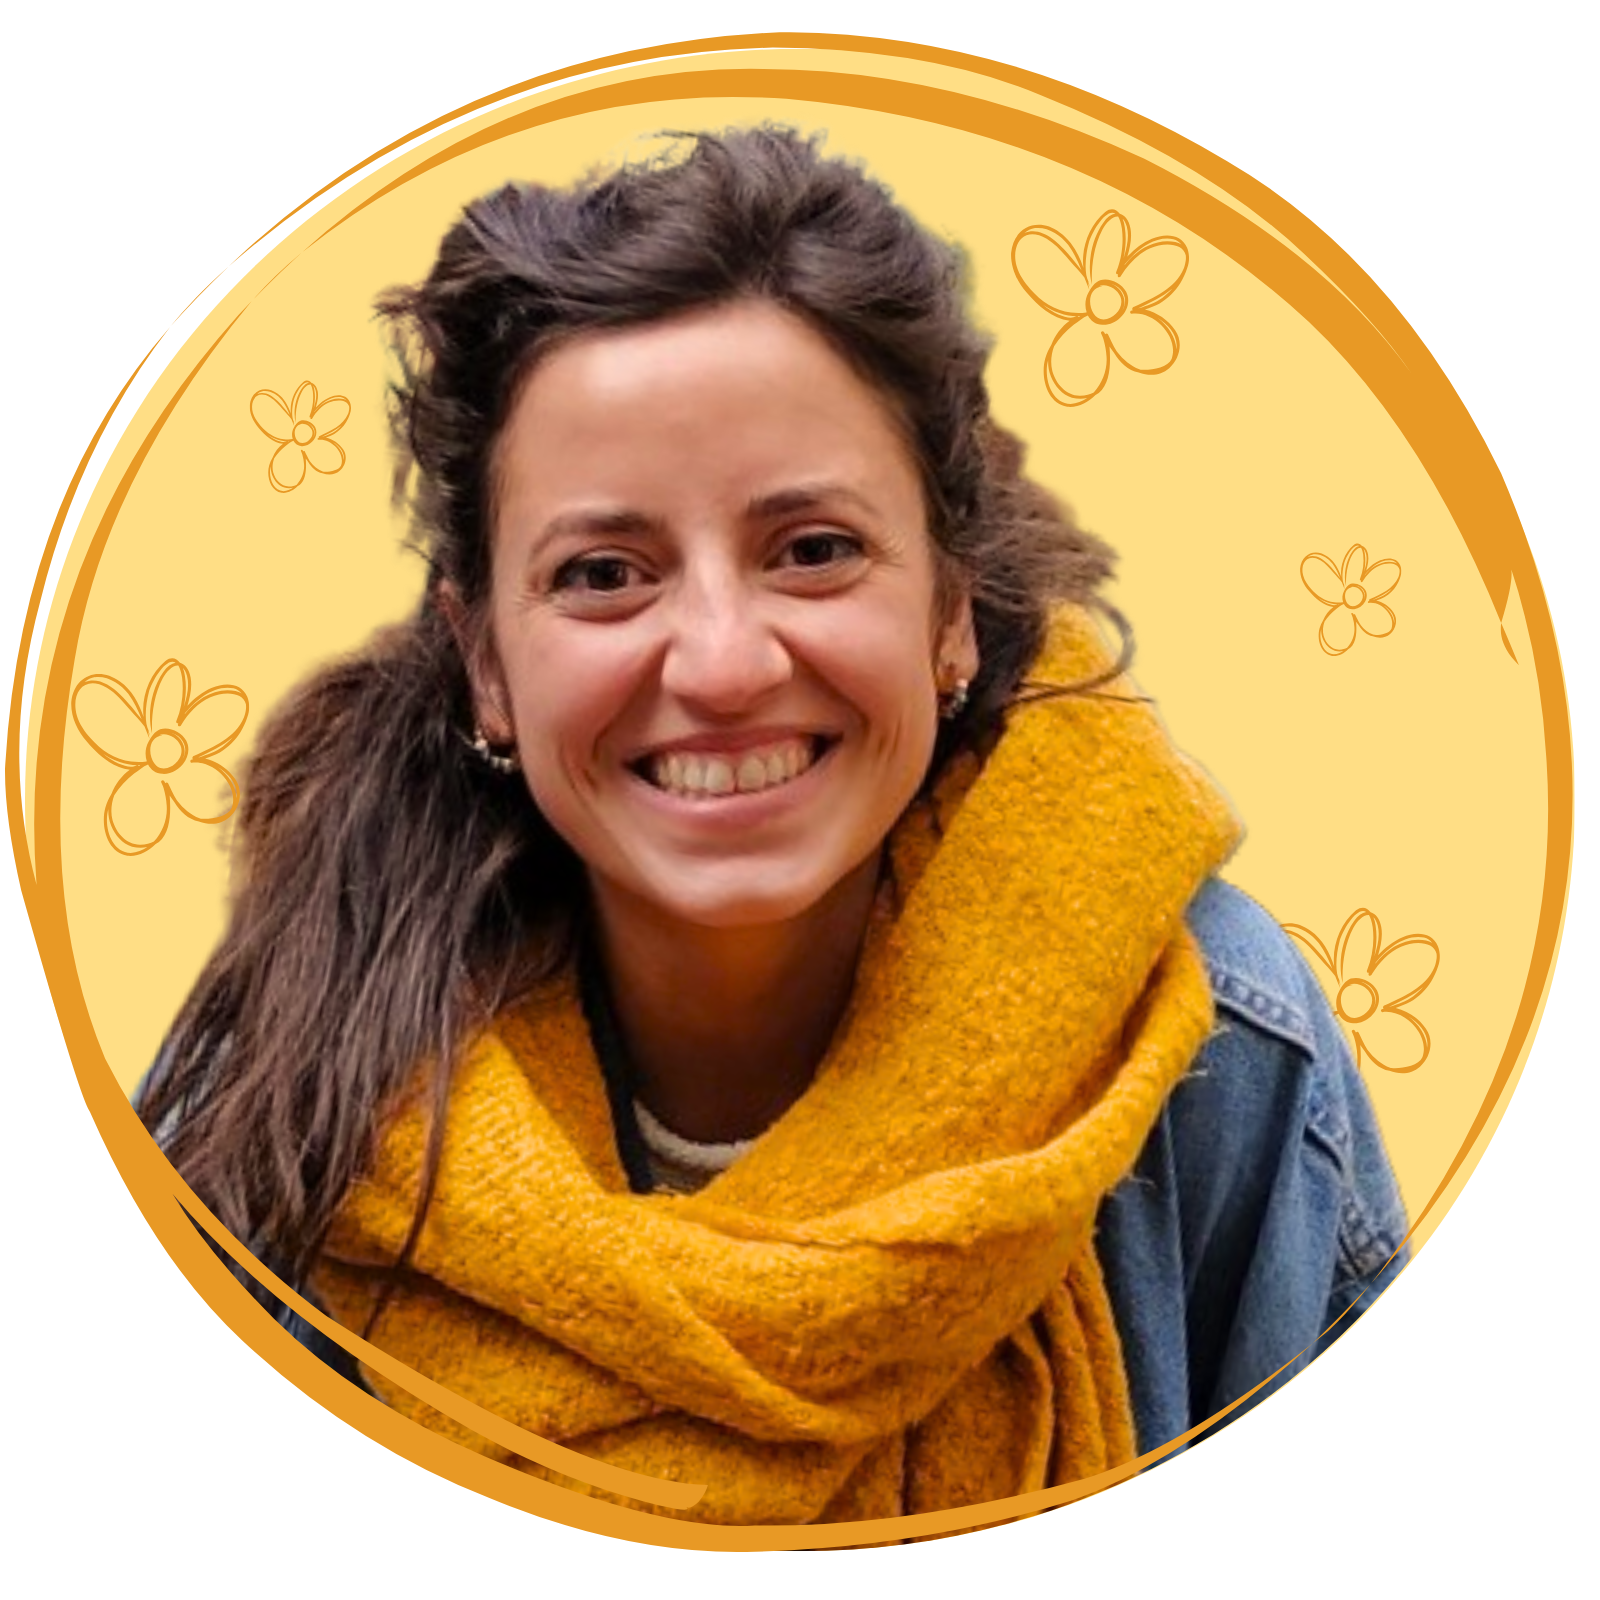
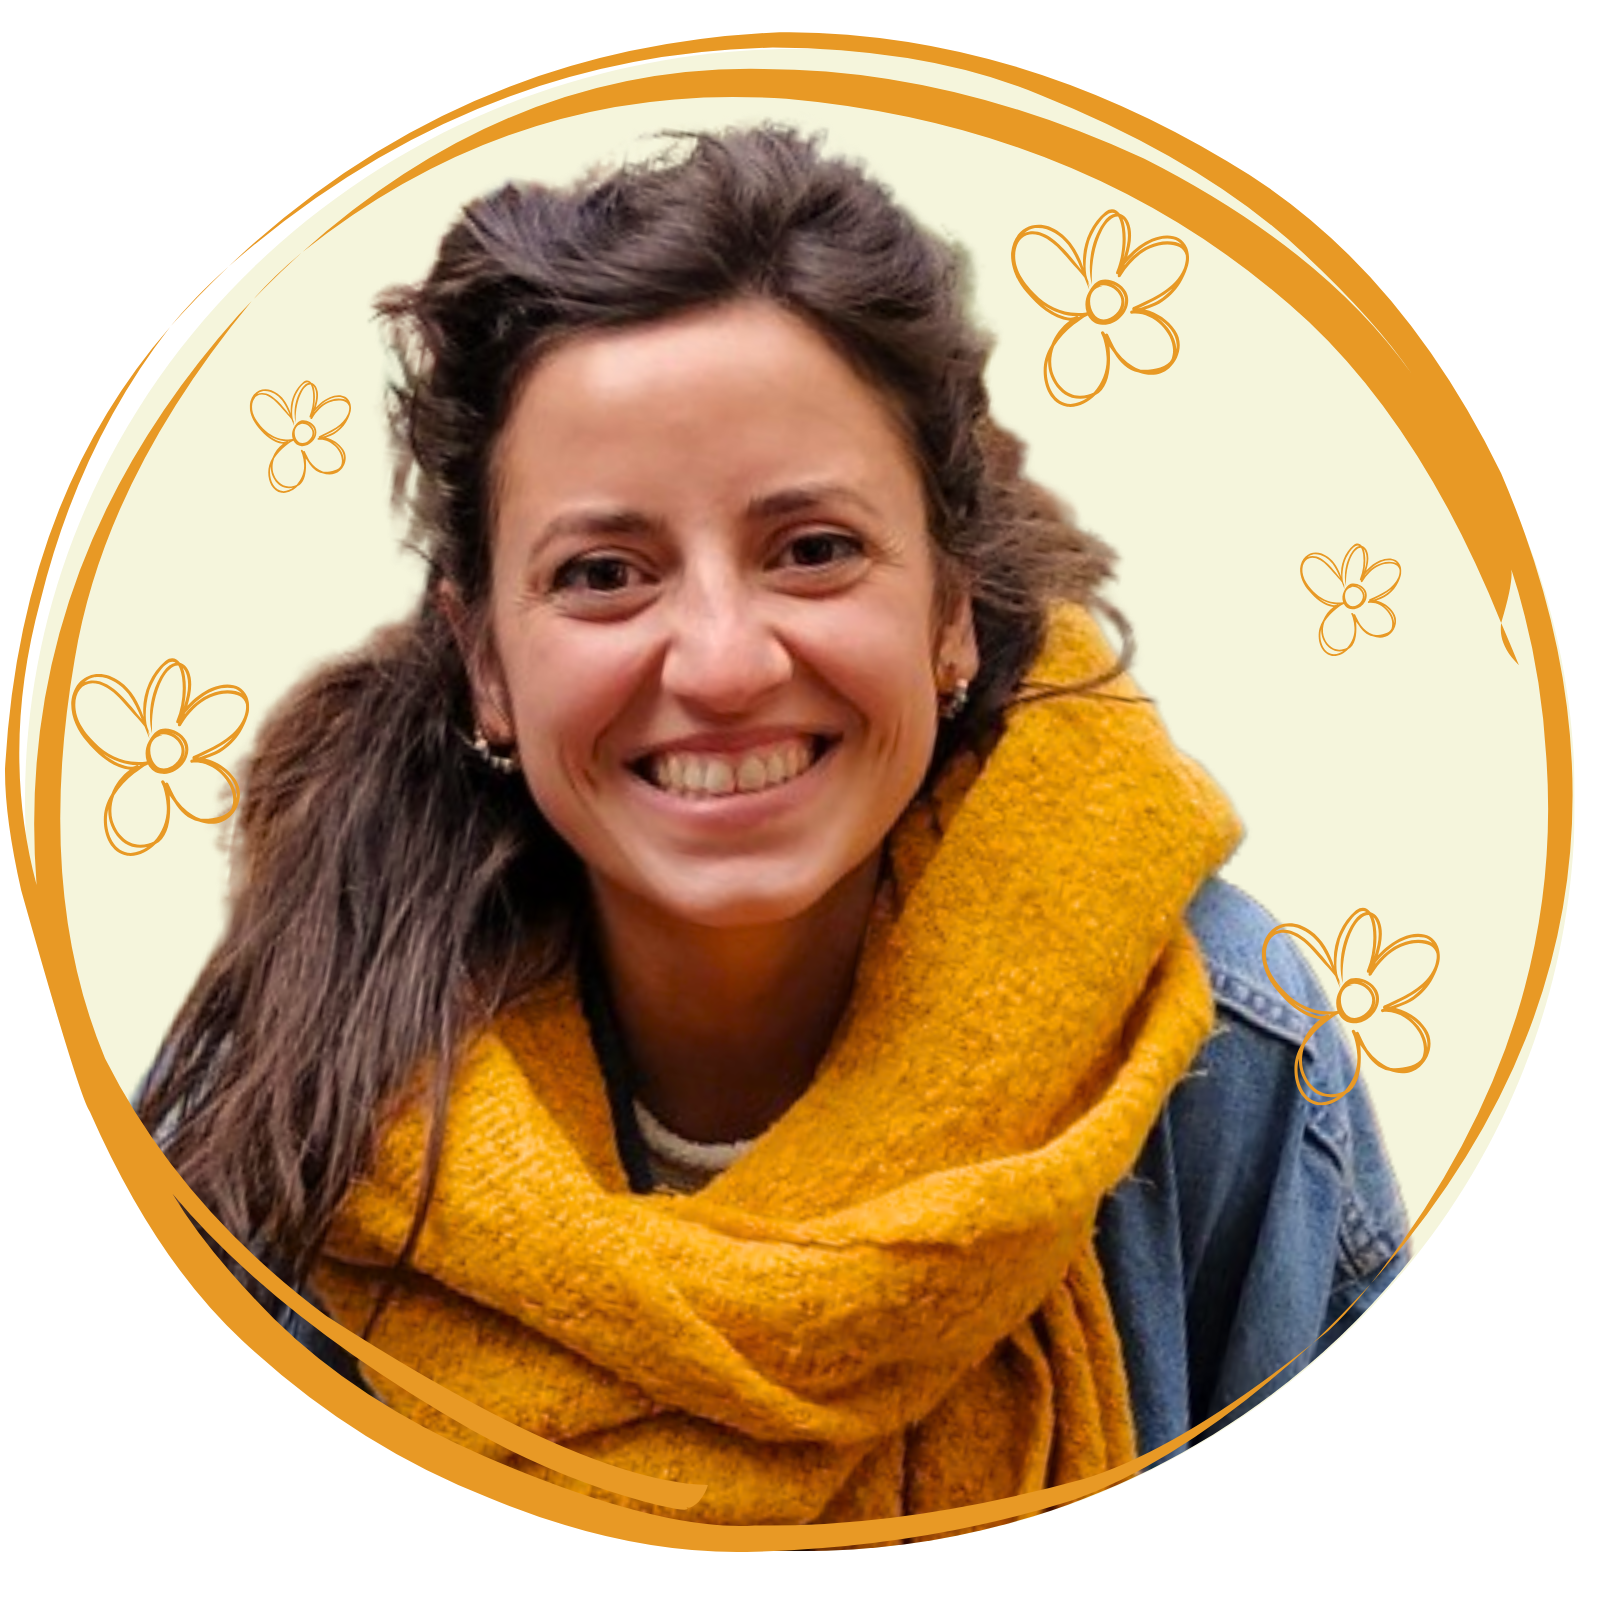
Change colour background

Changed region(s): [[0.0, 0.0312, 1.0, 0.7812]]

diff --git a/style/style.css b/style/style.css
@@ -5,7 +5,7 @@
 }
 
 html {
-  --color-background: #ffde85;
+  --color-background: #f5f5dc;
   --color-decorations: #e89925;
   --color-dark: #1d1b3f;
   background-color: var(--color-background);
